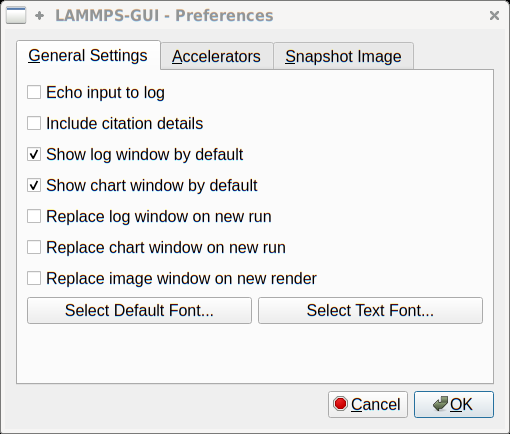
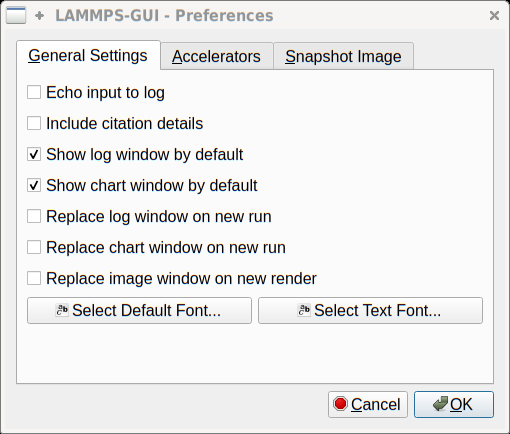
update docs

Changed region(s): [[0.1176, 0.6889, 0.4412, 0.7488], [0.5882, 0.6889, 0.8529, 0.7488]]

diff --git a/doc/src/Howto_lammps_gui.rst b/doc/src/Howto_lammps_gui.rst
@@ -1,29 +1,30 @@
 Using the LAMMPS GUI
 ====================
 
-LAMMPS GUI is essentially a simple graphical text editor that is linked
-to the :ref:`LAMMPS C-library interface <lammps_c_api>` and thus can run
-LAMMPS directly using the contents of the editor's text buffer as input.
+LAMMPS GUI is a simple graphical text editor that is linked to the
+:ref:`LAMMPS C-library interface <lammps_c_api>` and thus can run LAMMPS
+directly using the contents of the editor's text buffer as input.
 
-This is similar to what people usually would do to run LAMMPS using a
-regular text editor to edit the input and run the necessary command,
-possibly including the text editor, from a command line terminal window.
-That is quite effective when running LAMMPS on high-performance
-computing facilities and when you are very proficient with using the
-command line.  The main benefit of a GUI application is that this
-integrates very well with graphical desktop environments and many basic
-tasks can be done directly from within the GUI without switching to a
-text console and requiring external programs or scripts to extract data
-from the generated output.  This makes it easier for beginners to get
-started running simple LAMMPS simulation and thus very suitable for
-tutorials on LAMMPS and then makes it easier to switch to a full
+This is similar to what people traditionally would do to run LAMMPS:
+using a regular text editor to edit the input and run the necessary
+commands, possibly including the text editor, too, from a command line
+terminal window.  That is quite effective when running LAMMPS on
+high-performance computing facilities and when you are very proficient
+in using the command line.  The main benefit of a GUI application is
+that this integrates well with graphical desktop environments and many
+basic tasks can be done directly from within the GUI without switching
+to a text console or requiring external programs or scripts to extract
+data from the generated output.  This makes it easier for beginners to
+get started running simple LAMMPS simulations and thus very suitable for
+tutorials on LAMMPS.  But also makes it easier to switch to a full
 featured text editor and more sophisticated visualization and analysis
 tools.
 
 -----
 
 The following text provides a detailed tour of the features and
-functionality of the LAMMPS GUI.
+functionality of the LAMMPS GUI.  This document describes LAMMPS GUI
+version 1.2.
 
 Main window
 -----------
@@ -38,19 +39,19 @@ the following:
 
 There is the menu bar at the top, then the main editor buffer with the
 input file contents in the center with line numbers on the left and the
-input colored according to some LAMMPS syntax rules.  At the bottom is
-the status bar, which shows the status of LAMMPS execution on the right
-("Ready." when idle) and the current working directory on the left.
-The size of the main window will be stored when exiting and restored
-when starting again.  The name of the current file in the buffer is
-shown in the window title and the text `*modified*` is added in case
-the buffer has modifications that are not yet saved to a file.
+input colored according to the LAMMPS input file syntax.  At the bottom
+is the status bar, which shows the status of LAMMPS execution on the
+left ("Ready." when idle) and the current working directory on the
+right.  The size of the main window will be stored when exiting and
+restored when starting again.  The name of the current file in the
+buffer is shown in the window title and the text `*modified*` is added
+in case the buffer has modifications that are not yet saved to a file.
 
 Opening Files
 ^^^^^^^^^^^^^
 
 The LAMMPS GUI application will try to open the first command line
-argument as input file; further arguments are ignored.  When no
+argument as input file, further arguments are ignored.  When no
 argument is given LAMMPS GUI will start with an empty buffer.
 Files can also be opened via the ``File`` menu or by drag-and-drop
 of a file from a file manager to the editor window.  Only one
@@ -64,18 +65,18 @@ Running LAMMPS
 ^^^^^^^^^^^^^^
 
 From within the LAMMPS GUI main window LAMMPS can be started either from
-the ``Run`` menu or by the hotkey `Ctrl-Enter` (`Command-Enter` on macOS).
-LAMMPS is running in a separate thread, so the GUI will stay responsive
-yet is capable to interact with the calculation and access its data.
-It is important to note, that LAMMPS is using the contents of the input
-buffer for the run, **not** the file. Thus if there are unsaved changes
-in the buffer, they will be used.
+the ``Run`` menu or by the hotkey `Ctrl-Enter` (`Command-Enter` on
+macOS).  LAMMPS is running in a separate thread, so the GUI will stay
+responsive and thus is capable to interact with the calculation and
+access its data.  It is important to note, that LAMMPS is using the
+contents of the input buffer for the run, **not** the file it was read
+from. If there are unsaved changes in the buffer, they *will* be used.
 
 .. image:: JPG/lammps-gui-running.png
    :align: center
    :scale: 75%
 
-While LAMMPS is running the contents of the status bar change: on the
+While LAMMPS is running, the contents of the status bar change: on the
 left side there is a text indicating that LAMMPS is running, which will
 contain the selected number of threads, if thread-parallel acceleration
 was selected in the ``Preferences`` dialog.  On the right side, a
@@ -105,12 +106,13 @@ snapshot image into an image viewer window.
    :align: center
    :scale: 50%
 
-The image size and some image quality settings can be changed in the
-``Preferences`` dialog window.  From the image viewer window further
-adjustments can be made: the image can be rotated, one can zoom in
-or out, and it is possible to only display the atoms within a predefined
-group (default is "all").  After each change the image is rendered
-again and the display updated.
+The image size, some default image quality settings, and some colors
+can be changed in the ``Preferences`` dialog window.  From the image
+viewer window further adjustments can be made: high-quality rendering,
+antialiasing, display of box or axes, zoom factor. The the image can
+be rotated horizontally and vertically and it is possible to only
+display the atoms within a predefined group (default is "all").
+After each change, the image is rendered again and the display updated.
 
 
 Editor Functions

diff --git a/doc/src/Tools.rst b/doc/src/Tools.rst
@@ -645,16 +645,16 @@ LAMMPS GUI
 Overview
 ^^^^^^^^
 
-LAMMPS GUI is essentially a simple graphical text editor that is linked
-to the :ref:`LAMMPS C-library interface <lammps_c_api>` and thus can run
-LAMMPS directly using the contents of the editor's text buffer as input.
+LAMMPS GUI is a simple graphical text editor that is linked to the
+:ref:`LAMMPS C-library interface <lammps_c_api>` and thus can run LAMMPS
+directly using the contents of the editor's text buffer as input.
 
-This is similar to what people usually would do to run LAMMPS using a
-regular text editor to edit the input and running the necessary
-commands, possibly including the text editor, from a command line
-terminal window.  And this similarity is a design goal, making it easy
-for beginners to start with LAMMPS, but also making it easy to
-transition to use LAMMPS like most experienced users do.
+This is similar to what people traditionally would do to run LAMMPS:
+using a regular text editor to edit the input and run the necessary
+commands, possibly including the text editor, too, from a command line
+terminal window.  This similarity is a design goal. While making it easy
+for beginners to start with LAMMPS, it is also the intention to simplify
+the transition to workflows like most experienced LAMMPS users do.
 
 All features have been extensively exposed to hotkeys, so that there is
 also appeal for experienced LAMMPS users, too, especially for